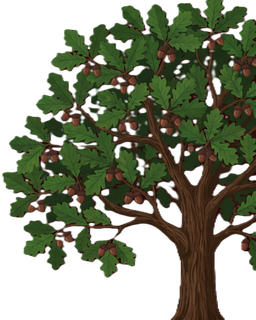
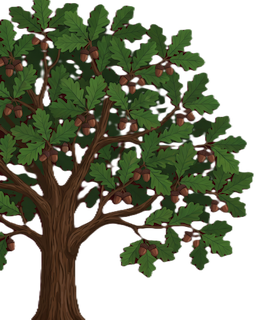
feat: flip oak tree image to left side and right-align text for temperament category

diff --git a/diary/src/features/tests/TestsTab.jsx b/diary/src/features/tests/TestsTab.jsx
@@ -173,18 +173,22 @@ export default function TestsTab({ onOverlayOpen }) {
             <div key={cat.id} className="bg-rose-900 rounded-2xl overflow-hidden shadow-sm transition-all duration-300">
               <button
                 onClick={() => toggleCategory(cat.id)}
-                className={`w-full relative flex items-center justify-between p-6 min-h-[120px] hover:bg-rose-800/70 transition-colors active:bg-rose-800 overflow-hidden ${openCategory === cat.id ? 'rounded-t-2xl' : 'rounded-2xl'}`}
+                className={`w-full relative flex items-center p-6 min-h-[120px] hover:bg-rose-800/70 transition-colors active:bg-rose-800 overflow-hidden ${openCategory === cat.id ? 'rounded-t-2xl' : 'rounded-2xl'} ${cat.name.toLowerCase().includes('темперамент') ? 'justify-end' : 'justify-between'}`}
               >
-                <span className="font-semibold text-[#F5E6D3] text-left text-xl sm:text-2xl pr-20 leading-tight z-10 relative">
-                  {cat.name}
-                </span>
-                {cat.name.toLowerCase().includes('темперамент') ? (
-                  <img src={oakTreeImg} alt="Темперамент" className="absolute right-0 bottom-0 h-[115%] w-auto object-cover object-right-bottom drop-shadow-md pointer-events-none" />
-                ) : openCategory === cat.id ? (
-                  <ChevronUp size={28} className="text-[#F5E6D3] shrink-0" />
-                ) : (
-                  <ChevronDown size={28} className="text-[#F5E6D3] shrink-0" />
+                {cat.name.toLowerCase().includes('темперамент') && (
+                  <img src={oakTreeImg} alt="Темперамент" className="absolute left-0 bottom-0 h-[115%] w-auto object-cover object-left-bottom drop-shadow-md pointer-events-none" />
                 )}
+                
+                <div className={`flex items-center gap-4 z-10 relative ${cat.name.toLowerCase().includes('темперамент') ? 'pl-24 text-right' : 'pr-4 text-left w-full justify-between'}`}>
+                  <span className="font-semibold text-[#F5E6D3] text-xl sm:text-2xl leading-tight">
+                    {cat.name}
+                  </span>
+                  {openCategory === cat.id ? (
+                    <ChevronUp size={28} className="text-[#F5E6D3] shrink-0" />
+                  ) : (
+                    <ChevronDown size={28} className="text-[#F5E6D3] shrink-0" />
+                  )}
+                </div>
               </button>
 
               {openCategory === cat.id && (
